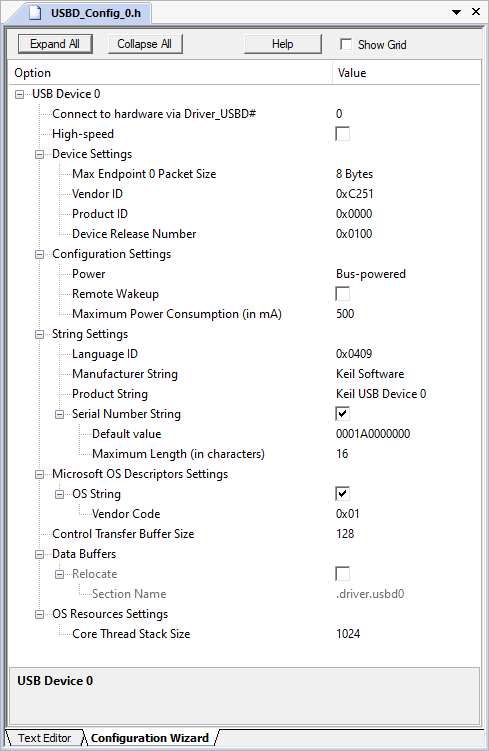
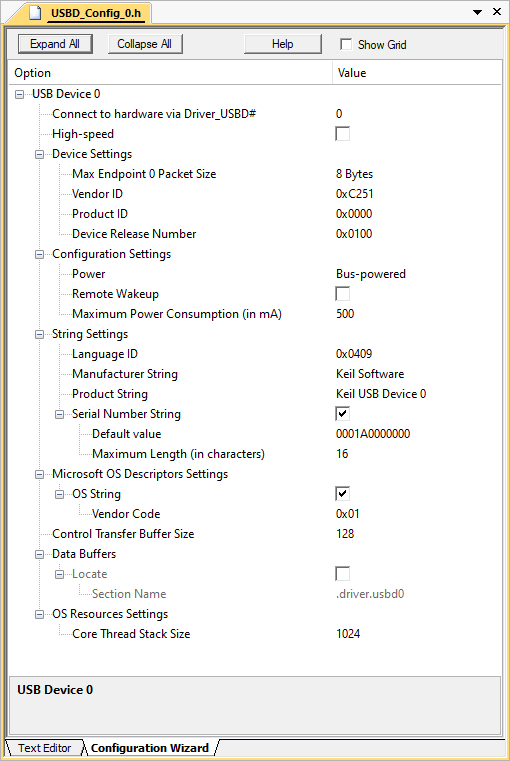
USB: update USB Device config file (#12)
- change "relocate" to "locate"
- update comments
- update source files related to "relocate" to "locate" change
- update documentation
- update examples
- update examples for CI

diff --git a/Components/USB/Source/usbd_compatibility.h b/Components/USB/Source/usbd_compatibility.h
@@ -40,8 +40,8 @@
 #ifndef USBD0_EP0_BUF_SIZE
 #define USBD0_EP0_BUF_SIZE                      (USBD0_MAX_PACKET0)
 #endif
-#ifndef USBD0_BUF_MEM_RELOC
-#define USBD0_BUF_MEM_RELOC                     (0)
+#ifndef USBD0_BUF_MEM_LOCATE
+#define USBD0_BUF_MEM_LOCATE                    (0)
 #endif
 
 #ifndef USBD1_CORE_THREAD_STACK_SIZE
@@ -62,8 +62,8 @@
 #ifndef USBD1_EP0_BUF_SIZE
 #define USBD1_EP0_BUF_SIZE                      (USBD1_MAX_PACKET0)
 #endif
-#ifndef USBD1_BUF_MEM_RELOC
-#define USBD1_BUF_MEM_RELOC                     (0)
+#ifndef USBD1_BUF_MEM_LOCATE
+#define USBD1_BUF_MEM_LOCATE                    (0)
 #endif
 
 #ifndef USBD2_CORE_THREAD_STACK_SIZE
@@ -84,8 +84,8 @@
 #ifndef USBD2_EP0_BUF_SIZE
 #define USBD2_EP0_BUF_SIZE                      (USBD2_MAX_PACKET0)
 #endif
-#ifndef USBD2_BUF_MEM_RELOC
-#define USBD2_BUF_MEM_RELOC                     (0)
+#ifndef USBD2_BUF_MEM_LOCATE
+#define USBD2_BUF_MEM_LOCATE                    (0)
 #endif
 
 #ifndef USBD3_CORE_THREAD_STACK_SIZE
@@ -106,8 +106,8 @@
 #ifndef USBD3_EP0_BUF_SIZE
 #define USBD3_EP0_BUF_SIZE                      (USBD3_MAX_PACKET0)
 #endif
-#ifndef USBD3_BUF_MEM_RELOC
-#define USBD3_BUF_MEM_RELOC                     (0)
+#ifndef USBD3_BUF_MEM_LOCATE
+#define USBD3_BUF_MEM_LOCATE                    (0)
 #endif
 
 

diff --git a/Components/USB/Source/usbd_section.h b/Components/USB/Source/usbd_section.h
@@ -16,7 +16,7 @@
 #define USBDn_DEV_BUF_MEM_SECTION_(str) __attribute__((section(str)))
 
 #ifdef  USBD0_PORT
-#if    (USBD0_BUF_MEM_RELOC == 1)
+#if    (USBD0_BUF_MEM_LOCATE == 1)
 #define USBD0_DEV_BUF_MEM_SECTION       USBDn_DEV_BUF_MEM_SECTION_(USBD0_BUF_MEM_SECTION_NAME)
 #else 
 #define USBD0_DEV_BUF_MEM_SECTION
@@ -24,7 +24,7 @@
 #endif
 
 #ifdef  USBD1_PORT
-#if    (USBD1_BUF_MEM_RELOC == 1)
+#if    (USBD1_BUF_MEM_LOCATE == 1)
 #define USBD1_DEV_BUF_MEM_SECTION       USBDn_DEV_BUF_MEM_SECTION_(USBD1_BUF_MEM_SECTION_NAME)
 #else 
 #define USBD1_DEV_BUF_MEM_SECTION
@@ -32,7 +32,7 @@
 #endif
 
 #ifdef  USBD2_PORT
-#if    (USBD2_BUF_MEM_RELOC == 1)
+#if    (USBD2_BUF_MEM_LOCATE == 1)
 #define USBD2_DEV_BUF_MEM_SECTION       USBDn_DEV_BUF_MEM_SECTION_(USBD2_BUF_MEM_SECTION_NAME)
 #else 
 #define USBD2_DEV_BUF_MEM_SECTION
@@ -40,7 +40,7 @@
 #endif
 
 #ifdef  USBD3_PORT
-#if    (USBD3_BUF_MEM_RELOC == 1)
+#if    (USBD3_BUF_MEM_LOCATE == 1)
 #define USBD3_DEV_BUF_MEM_SECTION       USBDn_DEV_BUF_MEM_SECTION_(USBD3_BUF_MEM_SECTION_NAME)
 #else 
 #define USBD3_DEV_BUF_MEM_SECTION

diff --git a/Components/USB/Config/USBD_Config.h b/Components/USB/Config/USBD_Config.h
@@ -41,7 +41,7 @@
 #define USBD%Instance%_DEV_DESC_IDPRODUCT        0x0000
 
 //     <o.0..15>Device Release Number <0x0000-0xFFFF>
-//     <i>Device Release Number in binary-coded decimal (bcdDevice)
+//     <i>Device Release Number in binary-coded decimal (bcdDevice).
 #define USBD%Instance%_DEV_DESC_BCDDEVICE        0x0100
 
 //   </h>
@@ -113,15 +113,16 @@
 #define USBD%Instance%_EP0_BUF_SIZE              128
 
 //   <h>Data Buffers
-//     <e>Relocate
-//       <i>Specifies if the USB data buffers are located at a specific memory address
+//     <e>Locate
+//       <i>Specifies if the USB data buffers are located in a specific memory
 //       <i>(via the linker script).
-#define USBD%Instance%_BUF_MEM_RELOC             0
+#define USBD%Instance%_BUF_MEM_LOCATE            0
 
 //       <s.128>Section Name
 //         <i>Specifies the section name for the USB data buffers
 //         <i>(for positioning via the linker script).
 #define USBD%Instance%_BUF_MEM_SECTION_NAME      ".driver.usbd%Instance%"
+
 //     </e>
 //   </h>
 

diff --git a/.ci/USB/Device/RTE/USB/USBD_Config_0.h b/.ci/USB/Device/RTE/USB/USBD_Config_0.h
@@ -41,7 +41,7 @@
 #define USBD0_DEV_DESC_IDPRODUCT        0x0000
 
 //     <o.0..15>Device Release Number <0x0000-0xFFFF>
-//     <i>Device Release Number in binary-coded decimal (bcdDevice)
+//     <i>Device Release Number in binary-coded decimal (bcdDevice).
 #define USBD0_DEV_DESC_BCDDEVICE        0x0100
 
 //   </h>
@@ -113,15 +113,16 @@
 #define USBD0_EP0_BUF_SIZE              128
 
 //   <h>Data Buffers
-//     <e>Relocate
-//       <i>Specifies if the USB data buffers are located at a specific memory address
+//     <e>Locate
+//       <i>Specifies if the USB data buffers are located in a specific memory
 //       <i>(via the linker script).
-#define USBD0_BUF_MEM_RELOC             0
+#define USBD0_BUF_MEM_LOCATE            0
 
 //       <s.128>Section Name
 //         <i>Specifies the section name for the USB data buffers
 //         <i>(for positioning via the linker script).
 #define USBD0_BUF_MEM_SECTION_NAME      ".driver.usbd0"
+
 //     </e>
 //   </h>
 

diff --git a/.ci/USB/Device/RTE/USB/USBD_Config_1.h b/.ci/USB/Device/RTE/USB/USBD_Config_1.h
@@ -41,7 +41,7 @@
 #define USBD1_DEV_DESC_IDPRODUCT        0x0000
 
 //     <o.0..15>Device Release Number <0x0000-0xFFFF>
-//     <i>Device Release Number in binary-coded decimal (bcdDevice)
+//     <i>Device Release Number in binary-coded decimal (bcdDevice).
 #define USBD1_DEV_DESC_BCDDEVICE        0x0100
 
 //   </h>
@@ -113,15 +113,16 @@
 #define USBD1_EP0_BUF_SIZE              128
 
 //   <h>Data Buffers
-//     <e>Relocate
-//       <i>Specifies if the USB data buffers are located at a specific memory address
+//     <e>Locate
+//       <i>Specifies if the USB data buffers are located in a specific memory
 //       <i>(via the linker script).
-#define USBD1_BUF_MEM_RELOC             0
+#define USBD1_BUF_MEM_LOCATE            0
 
 //       <s.128>Section Name
 //         <i>Specifies the section name for the USB data buffers
 //         <i>(for positioning via the linker script).
 #define USBD1_BUF_MEM_SECTION_NAME      ".driver.usbd1"
+
 //     </e>
 //   </h>
 

diff --git a/.ci/USB/Device/RTE/USB/USBD_Config_2.h b/.ci/USB/Device/RTE/USB/USBD_Config_2.h
@@ -41,7 +41,7 @@
 #define USBD2_DEV_DESC_IDPRODUCT        0x0000
 
 //     <o.0..15>Device Release Number <0x0000-0xFFFF>
-//     <i>Device Release Number in binary-coded decimal (bcdDevice)
+//     <i>Device Release Number in binary-coded decimal (bcdDevice).
 #define USBD2_DEV_DESC_BCDDEVICE        0x0100
 
 //   </h>
@@ -113,15 +113,16 @@
 #define USBD2_EP0_BUF_SIZE              128
 
 //   <h>Data Buffers
-//     <e>Relocate
-//       <i>Specifies if the USB data buffers are located at a specific memory address
+//     <e>Locate
+//       <i>Specifies if the USB data buffers are located in a specific memory
 //       <i>(via the linker script).
-#define USBD2_BUF_MEM_RELOC             0
+#define USBD2_BUF_MEM_LOCATE            0
 
 //       <s.128>Section Name
 //         <i>Specifies the section name for the USB data buffers
 //         <i>(for positioning via the linker script).
 #define USBD2_BUF_MEM_SECTION_NAME      ".driver.usbd2"
+
 //     </e>
 //   </h>
 

diff --git a/.ci/USB/Device/RTE/USB/USBD_Config_3.h b/.ci/USB/Device/RTE/USB/USBD_Config_3.h
@@ -41,7 +41,7 @@
 #define USBD3_DEV_DESC_IDPRODUCT        0x0000
 
 //     <o.0..15>Device Release Number <0x0000-0xFFFF>
-//     <i>Device Release Number in binary-coded decimal (bcdDevice)
+//     <i>Device Release Number in binary-coded decimal (bcdDevice).
 #define USBD3_DEV_DESC_BCDDEVICE        0x0100
 
 //   </h>
@@ -113,15 +113,16 @@
 #define USBD3_EP0_BUF_SIZE              128
 
 //   <h>Data Buffers
-//     <e>Relocate
-//       <i>Specifies if the USB data buffers are located at a specific memory address
+//     <e>Locate
+//       <i>Specifies if the USB data buffers are located in a specific memory
 //       <i>(via the linker script).
-#define USBD3_BUF_MEM_RELOC             0
+#define USBD3_BUF_MEM_LOCATE            0
 
 //       <s.128>Section Name
 //         <i>Specifies the section name for the USB data buffers
 //         <i>(for positioning via the linker script).
 #define USBD3_BUF_MEM_SECTION_NAME      ".driver.usbd3"
+
 //     </e>
 //   </h>
 

diff --git a/Examples/USB/Device/HID/RTE/USB/USBD_Config_0.h b/Examples/USB/Device/HID/RTE/USB/USBD_Config_0.h
@@ -47,7 +47,7 @@
 #define USBD0_DEV_DESC_IDPRODUCT        0x5901
 
 //     <o.0..15>Device Release Number <0x0000-0xFFFF>
-//     <i>Device Release Number in binary-coded decimal (bcdDevice)
+//     <i>Device Release Number in binary-coded decimal (bcdDevice).
 #define USBD0_DEV_DESC_BCDDEVICE        0x0100
 
 //   </h>
@@ -119,15 +119,16 @@
 #define USBD0_EP0_BUF_SIZE              128
 
 //   <h>Data Buffers
-//     <e>Relocate
-//       <i>Specifies if the USB data buffers are located at a specific memory address
+//     <e>Locate
+//       <i>Specifies if the USB data buffers are located in a specific memory
 //       <i>(via the linker script).
-#define USBD0_BUF_MEM_RELOC             0
+#define USBD0_BUF_MEM_LOCATE            0
 
 //       <s.128>Section Name
 //         <i>Specifies the section name for the USB data buffers
 //         <i>(for positioning via the linker script).
 #define USBD0_BUF_MEM_SECTION_NAME      ".driver.usbd0"
+
 //     </e>
 //   </h>
 

diff --git a/Examples/USB/Device/MassStorage/RTE/USB/USBD_Config_0.h b/Examples/USB/Device/MassStorage/RTE/USB/USBD_Config_0.h
@@ -47,7 +47,7 @@
 #define USBD0_DEV_DESC_IDPRODUCT        0x5903
 
 //     <o.0..15>Device Release Number <0x0000-0xFFFF>
-//     <i>Device Release Number in binary-coded decimal (bcdDevice)
+//     <i>Device Release Number in binary-coded decimal (bcdDevice).
 #define USBD0_DEV_DESC_BCDDEVICE        0x0100
 
 //   </h>
@@ -119,15 +119,16 @@
 #define USBD0_EP0_BUF_SIZE              128
 
 //   <h>Data Buffers
-//     <e>Relocate
-//       <i>Specifies if the USB data buffers are located at a specific memory address
+//     <e>Locate
+//       <i>Specifies if the USB data buffers are located in a specific memory
 //       <i>(via the linker script).
-#define USBD0_BUF_MEM_RELOC             0
+#define USBD0_BUF_MEM_LOCATE            0
 
 //       <s.128>Section Name
 //         <i>Specifies the section name for the USB data buffers
 //         <i>(for positioning via the linker script).
 #define USBD0_BUF_MEM_SECTION_NAME      ".driver.usbd0"
+
 //     </e>
 //   </h>
 

diff --git a/Examples/USB/Device/VirtualCOM/RTE/USB/USBD_Config_0.h b/Examples/USB/Device/VirtualCOM/RTE/USB/USBD_Config_0.h
@@ -47,7 +47,7 @@
 #define USBD0_DEV_DESC_IDPRODUCT        0x5905
 
 //     <o.0..15>Device Release Number <0x0000-0xFFFF>
-//     <i>Device Release Number in binary-coded decimal (bcdDevice)
+//     <i>Device Release Number in binary-coded decimal (bcdDevice).
 #define USBD0_DEV_DESC_BCDDEVICE        0x0100
 
 //   </h>
@@ -119,15 +119,16 @@
 #define USBD0_EP0_BUF_SIZE              128
 
 //   <h>Data Buffers
-//     <e>Relocate
-//       <i>Specifies if the USB data buffers are located at a specific memory address
+//     <e>Locate
+//       <i>Specifies if the USB data buffers are located in a specific memory
 //       <i>(via the linker script).
-#define USBD0_BUF_MEM_RELOC             0
+#define USBD0_BUF_MEM_LOCATE            0
 
 //       <s.128>Section Name
 //         <i>Specifies the section name for the USB data buffers
 //         <i>(for positioning via the linker script).
 #define USBD0_BUF_MEM_SECTION_NAME      ".driver.usbd0"
+
 //     </e>
 //   </h>
 
